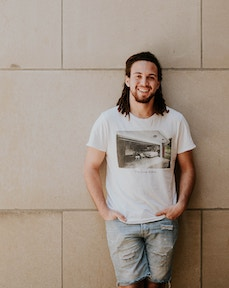
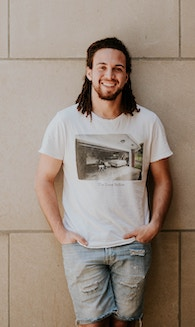
Add resized guyonwallpic

diff --git a/designers.html b/designers.html
@@ -45,19 +45,19 @@
 
     <div class="designers">
        <div class="designer">
-            <img src="images/clothing/bottoms/overalls.jpg" alt="Girl in overalls" style="width:40%;">
+            <img src="images/designers/overalls.jpg" alt="Girl in overalls" style="width:40%;">
             <div class="content">
             <h1>Abby Smith</h1>
             <p>Lorem ipsum..</p>
         </div>
         <div class="designer">
-            <img src="images/clothing/accessories/sunglassesandhat.jpg" alt="Stylish lady in a wide-brimmed had and sunglasses" style="width:40%;">
+            <img src="images/designers/sunglassesandhat.jpg" alt="Stylish lady in a wide-brimmed had and sunglasses" style="width:40%;">
             <div class="content">
             <h1>Stephanie Welke</h1>
             <p>Lorem ipsum..</p>
         </div>
         <div class="designer">
-            <img src="notebook.jpg" alt="Notebook" style="width:100%;">
+            <img src="images/designers/guyonwall.jpg" alt="Guy leaning on wall in the sun" style="width:40%;">
             <!--Photo by Brooke Cagle on Unsplash-->
             <div class="content">
             <h1>Dave Mannheim</h1>
